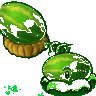
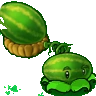
fix(melon): fill 769 internal holes in Melon-pult / Winter Melon sprites
Previous color-keyout step (keyout_melon.py / keyout_winter.py) over-removed
the green grass background, but some grass-green pixels actually belong to
the plant body itself: the green wooden bowl-tray of Melon-pult's trebuchet
and the green-tinted highlight dots on the ice-melon in Winter Melon. The
result was sprite bodies with visible holes.

Fix: BFS flood-fill from the edge to mark real background (transparent
pixels connected to the image border); any remaining transparent pixel is
an internal hole and is restored to its original RGB with alpha=255.

- MelonPult.png: 741 holes filled (the bowl-tray, leaves and shaded parts).
- WinterMelon.png: 28 holes filled (ice-melon highlight dots).
- Bumped v3.2.4 -> v3.2.5-fill (asset 1788075960 -> new).

diff --git a/pvz-web/index.html b/pvz-web/index.html
@@ -4,7 +4,7 @@
     <meta charset="UTF-8">
     <meta name="viewport" content="width=device-width, initial-scale=1.0">
     <title>Plants vs Zombies - Web Clone</title>
-    <link rel="stylesheet" href="css/style.css?v=1788075960">
+    <link rel="stylesheet" href="css/style.css?v=1788076150">
 </head>
 <body>
     <div id="game-container">
@@ -119,16 +119,16 @@
                 });
         })();
     </script>
-    <script src="js/InputManager.js?v=1788075960"></script>
-    <script src="js/Board.js?v=1788075960"></script>
-    <script src="js/entities/Entity.js?v=1788075960"></script>
-    <script src="js/entities/Plant.js?v=1788075960"></script>
-    <script src="js/entities/Zombie.js?v=1788075960"></script>
-    <script src="js/entities/Projectile.js?v=1788075960"></script>
-    <script src="js/entities/Sun.js?v=1788075960"></script>
-    <script src="js/managers/WaveManager.js?v=1788075960"></script>
-    <script src="js/managers/CollisionManager.js?v=1788075960"></script>
-    <script src="js/managers/EventManager.js?v=1788075960"></script>
-    <script src="js/GameLoop.js?v=1788075960"></script>
+    <script src="js/InputManager.js?v=1788076150"></script>
+    <script src="js/Board.js?v=1788076150"></script>
+    <script src="js/entities/Entity.js?v=1788076150"></script>
+    <script src="js/entities/Plant.js?v=1788076150"></script>
+    <script src="js/entities/Zombie.js?v=1788076150"></script>
+    <script src="js/entities/Projectile.js?v=1788076150"></script>
+    <script src="js/entities/Sun.js?v=1788076150"></script>
+    <script src="js/managers/WaveManager.js?v=1788076150"></script>
+    <script src="js/managers/CollisionManager.js?v=1788076150"></script>
+    <script src="js/managers/EventManager.js?v=1788076150"></script>
+    <script src="js/GameLoop.js?v=1788076150"></script>
 </body>
 </html>

diff --git a/fill_melon_holes.py b/fill_melon_holes.py
@@ -1,0 +1,61 @@
+"""
+修复 PVZ1 原版 sprite 抠图时误扣的"身体内部空洞"。
+- MelonPult.png: 741 个空洞（投石车绿色底座被草色键控误扣）
+- WinterMelon.png: 28 个空洞（冰西瓜身体高光被误扣）
+
+方法：flood fill 从边缘找"真背景"透明区域，剩下的透明像素 = 内部空洞，
+把空洞填回原图颜色 + alpha=255。
+"""
+import numpy as np
+from PIL import Image
+from collections import deque
+
+
+def fill_holes(path, out_path=None):
+    img = Image.open(path).convert('RGBA')
+    arr = np.array(img)
+    h, w = arr.shape[:2]
+    alpha = arr[:, :, 3]
+    transparent = alpha == 0
+
+    # BFS flood fill 从边缘：连通边缘的透明 = 真背景
+    visited = np.zeros_like(transparent, dtype=bool)
+    q = deque()
+    for x in range(w):
+        if transparent[0, x] and not visited[0, x]:
+            q.append((0, x)); visited[0, x] = True
+        if transparent[h-1, x] and not visited[h-1, x]:
+            q.append((h-1, x)); visited[h-1, x] = True
+    for y in range(h):
+        if transparent[y, 0] and not visited[y, 0]:
+            q.append((y, 0)); visited[y, 0] = True
+        if transparent[y, w-1] and not visited[y, w-1]:
+            q.append((y, w-1)); visited[y, w-1] = True
+
+    while q:
+        y, x = q.popleft()
+        for dy, dx in [(-1,0),(1,0),(0,-1),(0,1)]:
+            ny, nx = y+dy, x+dx
+            if 0 <= ny < h and 0 <= nx < w and transparent[ny, nx] and not visited[ny, nx]:
+                visited[ny, nx] = True
+                q.append((ny, nx))
+
+    # 内部空洞：透明 且 不连通边缘
+    holes = transparent & ~visited
+    n_holes = int(holes.sum())
+    if n_holes > 0:
+        # 填回原图颜色，alpha=255
+        new_arr = arr.copy()
+        new_arr[holes, 3] = 255  # 恢复不透明
+        # 原色已经在 arr 里保留了（抠图只改了 alpha），所以 RGB 不用动
+        img2 = Image.fromarray(new_arr, 'RGBA')
+    else:
+        img2 = img
+
+    out = out_path or path
+    img2.save(out, 'PNG')
+    print(f'{path.split("/")[-1]}: 修复 {n_holes} 个内部空洞 -> saved {out}')
+
+
+fill_holes('/Users/clawbox/nexus-hub/pvz-web/assets/images/Plants/MelonPult/MelonPult.png')
+fill_holes('/Users/clawbox/nexus-hub/pvz-web/assets/images/Plants/WinterMelon/WinterMelon.png')
